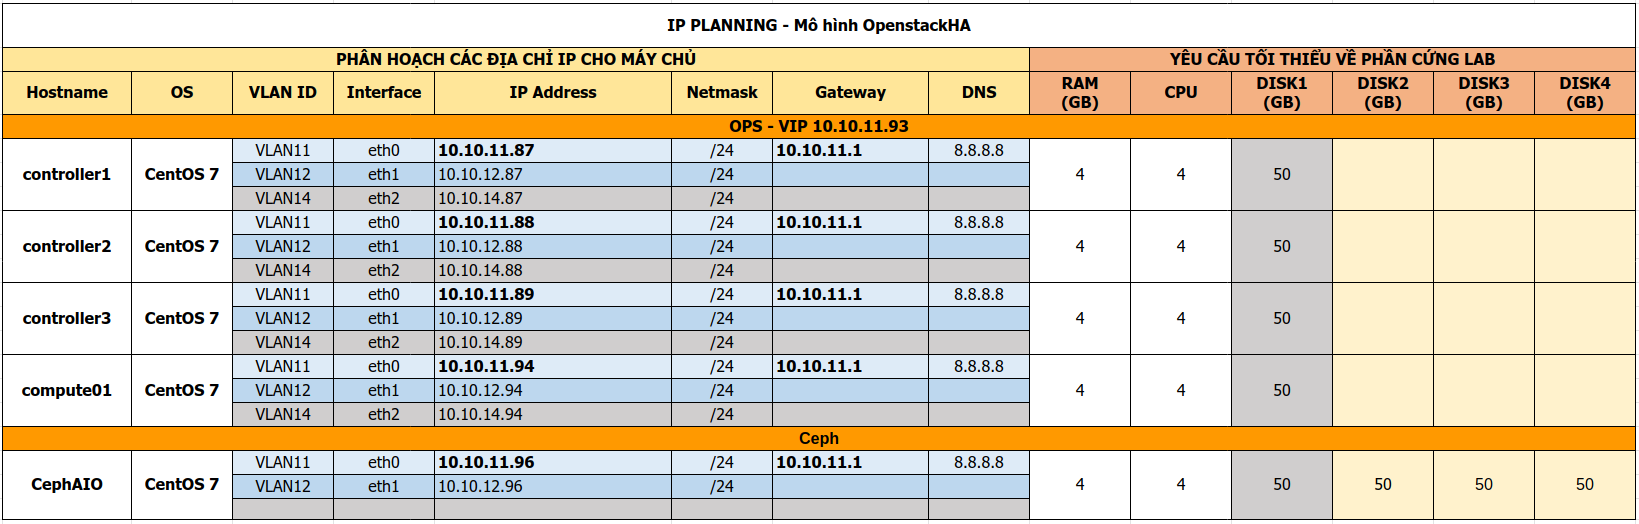
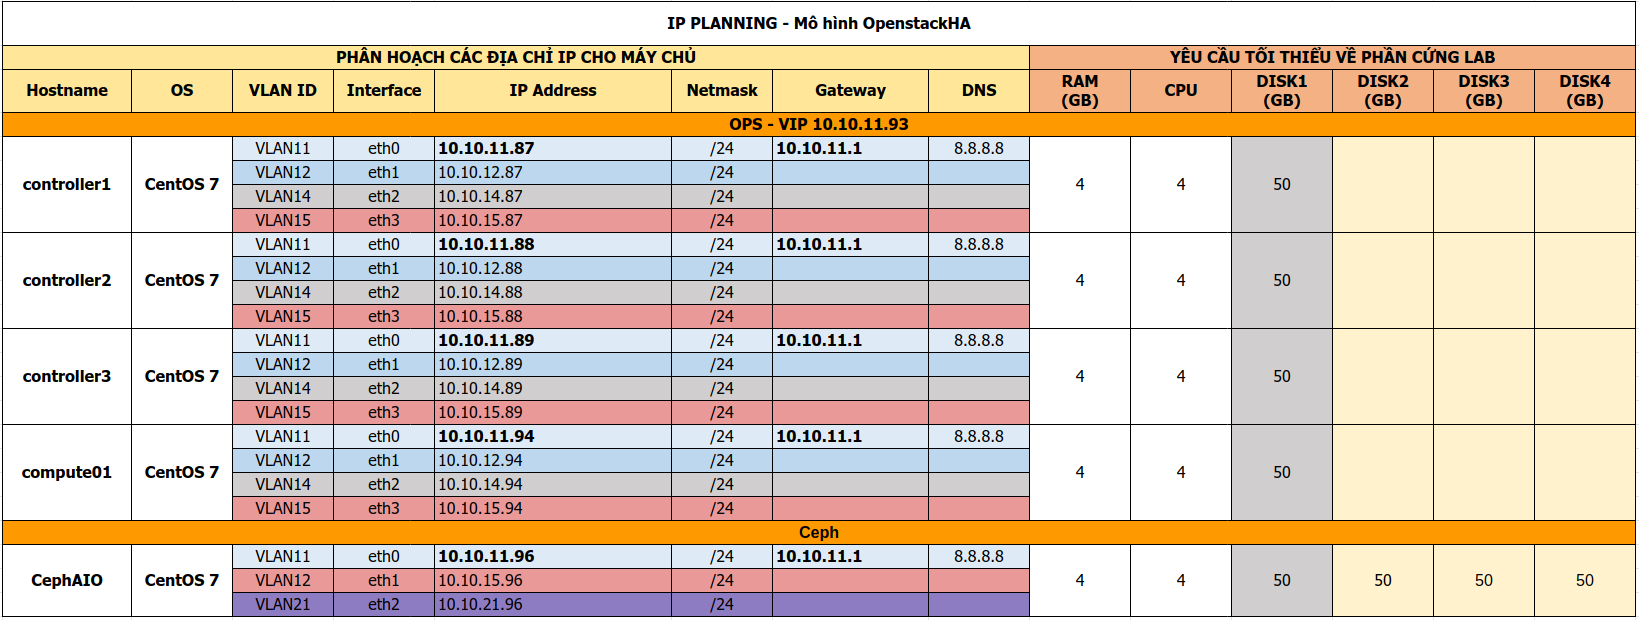
update

diff --git a/docs/ops-ha-queen/com1.md b/docs/ops-ha-queen/com1.md
@@ -4,9 +4,11 @@
 
 ### Phân hoạch
 
-vlan mgnt: eth0: 10.10.11.94
-vlan provider: eth1: 10.10.12.94
-vlan datavm: eth2: 10.10.14.94
+Quy hoạch Network:
+- vlan mgnt: eth0: 10.10.11.94
+- vlan provider: eth1: 10.10.12.94
+- vlan datavm: eth2: 10.10.14.94
+- vlan cephcom: eth3: 10.10.15.94
 
 ### Setup node
 
@@ -29,6 +31,11 @@ echo "Setup IP eth2"
 nmcli c modify eth2 ipv4.addresses 10.10.14.94/24
 nmcli c modify eth2 ipv4.method manual
 nmcli con mod eth2 connection.autoconnect yes
+
+echo "Setup IP eth3"
+nmcli c modify eth3 ipv4.addresses 10.10.15.94/24
+nmcli c modify eth3 ipv4.method manual
+nmcli con mod eth3 connection.autoconnect yes
 
 sed -i 's/SELINUX=enforcing/SELINUX=disabled/g' /etc/sysconfig/selinux
 sed -i 's/SELINUX=enforcing/SELINUX=disabled/g' /etc/selinux/config
@@ -79,7 +86,7 @@ echo "10.10.11.94 com01" >> /etc/hosts
 Lưu ý:
 - Snapshot preenv
 
-## Phần X: Cài đặt các gói cần thiết
+## Phần 2: Cài đặt các gói cần thiết
 
 ```
 yum -y install centos-release-openstack-queens
@@ -87,7 +94,7 @@ yum -y install crudini wget vim
 yum -y install python-openstackclient openstack-selinux python2-PyMySQL
 ```
 
-## Phần X: Cài đặt Nova
+## Phần 3: Cài đặt Nova
 
 ### Cài đặt gói
 
@@ -227,7 +234,7 @@ Kết quả
 +----+------------------+-------+----------+---------+-------+----------------------------+
 ```
 
-## Phần X: Cài đặt Neutron
+## Phần 4: Cài đặt Neutron
 
 ### Cài đặt gói
 

diff --git a/docs/ops-ha-queen/cephaio.md b/docs/ops-ha-queen/cephaio.md
@@ -6,8 +6,9 @@ https://github.com/lacoski/tutorial-ceph/blob/master/docs/setup/ceph-luminous-ai
 
 ### Phân hoạch
 
-vlan CephCOM: eth0: 10.10.11.96
-vlan CephREP: eth1: 10.10.12.96
+vlan MNGT: eth0: 10.10.11.96
+vlan CephCOM: eth1: 10.10.15.96
+vlan CephREP: eth2: 10.10.21.96
 
 4 Disk:
 - vda: sử dụng để cài OS
@@ -26,9 +27,14 @@ nmcli c modify eth0 ipv4.method manual
 nmcli con mod eth0 connection.autoconnect yes
 
 echo "Setup IP eth1"
-nmcli c modify eth1 ipv4.addresses 10.10.12.96/24
+nmcli c modify eth1 ipv4.addresses 10.10.15.96/24
 nmcli c modify eth1 ipv4.method manual
 nmcli con mod eth1 connection.autoconnect yes
+
+echo "Setup IP eth2"
+nmcli c modify eth2 ipv4.addresses 10.10.21.96/24
+nmcli c modify eth2 ipv4.method manual
+nmcli con mod eth2 connection.autoconnect yes
 
 sed -i 's/SELINUX=enforcing/SELINUX=disabled/g' /etc/sysconfig/selinux
 sed -i 's/SELINUX=enforcing/SELINUX=disabled/g' /etc/selinux/config
@@ -49,7 +55,7 @@ init 6
 Bổ sung file hosts
 ```
 cat << EOF >> /etc/hosts
-10.10.11.96 cephaio
+10.10.15.96 cephaio
 EOF
 ```
 
@@ -108,6 +114,9 @@ yum install ceph-deploy -y
 ceph-deploy --version
 ```
 
+Lưu ý:
+- Snapshot preceph
+
 ### Cấu hình ssh key
 
 ```
@@ -137,8 +146,8 @@ osd pool default pgp num = 128
 
 osd crush chooseleaf type = 0
 
-public network = 10.10.11.96/24
-cluster network = 10.10.12.96/24
+public network = 10.10.15.96/24
+cluster network = 10.10.21.96/24
 EOF
 ```
 

diff --git a/docs/ops-ha-queen/ctl-1.md b/docs/ops-ha-queen/ctl-1.md
@@ -9,6 +9,7 @@ Quy hoạch Network:
 - vlan mgnt: eth0: 10.10.11.87
 - vlan provider: eth1: 10.10.12.87
 - vlan datavm: eth2: 10.10.14.87
+- vlan cephcom: eth3: 10.10.15.87
 
 ### Setup node
 
@@ -32,6 +33,10 @@ nmcli c modify eth2 ipv4.addresses 10.10.14.87/24
 nmcli c modify eth2 ipv4.method manual
 nmcli con mod eth2 connection.autoconnect yes
 
+echo "Setup IP eth3"
+nmcli c modify eth3 ipv4.addresses 10.10.15.87/24
+nmcli c modify eth3 ipv4.method manual
+nmcli con mod eth3 connection.autoconnect yes
 
 sed -i 's/SELINUX=enforcing/SELINUX=disabled/g' /etc/sysconfig/selinux
 sed -i 's/SELINUX=enforcing/SELINUX=disabled/g' /etc/selinux/config

diff --git a/docs/ops-ha-queen/ctl-2.md b/docs/ops-ha-queen/ctl-2.md
@@ -9,6 +9,7 @@ Quy hoạch Network:
 - vlan mgnt: eth0: 10.10.11.88
 - vlan provider: eth1: 10.10.12.88
 - vlan datavm: eth2: 10.10.14.88
+- vlan cephcom: eth3: 10.10.15.88
 
 ### Setup node
 
@@ -32,6 +33,10 @@ nmcli c modify eth2 ipv4.addresses 10.10.14.88/24
 nmcli c modify eth2 ipv4.method manual
 nmcli con mod eth2 connection.autoconnect yes
 
+echo "Setup IP eth3"
+nmcli c modify eth3 ipv4.addresses 10.10.15.88/24
+nmcli c modify eth3 ipv4.method manual
+nmcli con mod eth3 connection.autoconnect yes
 
 sed -i 's/SELINUX=enforcing/SELINUX=disabled/g' /etc/sysconfig/selinux
 sed -i 's/SELINUX=enforcing/SELINUX=disabled/g' /etc/selinux/config

diff --git a/docs/ops-ha-queen/ctl-3.md b/docs/ops-ha-queen/ctl-3.md
@@ -9,6 +9,7 @@ Quy hoạch Network:
 - vlan mgnt: eth0: 10.10.11.89
 - vlan provider: eth1: 10.10.12.89
 - vlan datavm: eth2: 10.10.14.89
+- vlan cephcom: eth3: 10.10.15.89
 
 ### Setup node
 
@@ -32,6 +33,10 @@ nmcli c modify eth2 ipv4.addresses 10.10.14.89/24
 nmcli c modify eth2 ipv4.method manual
 nmcli con mod eth2 connection.autoconnect yes
 
+echo "Setup IP eth3"
+nmcli c modify eth3 ipv4.addresses 10.10.15.89/24
+nmcli c modify eth3 ipv4.method manual
+nmcli con mod eth3 connection.autoconnect yes
 
 sed -i 's/SELINUX=enforcing/SELINUX=disabled/g' /etc/sysconfig/selinux
 sed -i 's/SELINUX=enforcing/SELINUX=disabled/g' /etc/selinux/config

diff --git a/docs/ops-ha-queen/README.md b/docs/ops-ha-queen/README.md
@@ -6,6 +6,8 @@
 
 ## Mô hình
 
+![](/docs/ops-ha-queen/images/pic2.png)
+
 ## Phần 1: Chuẩn bị môi trường
 
 Theo mô hình có 3 CTL, 1 COM, 1 Ceph All In One
